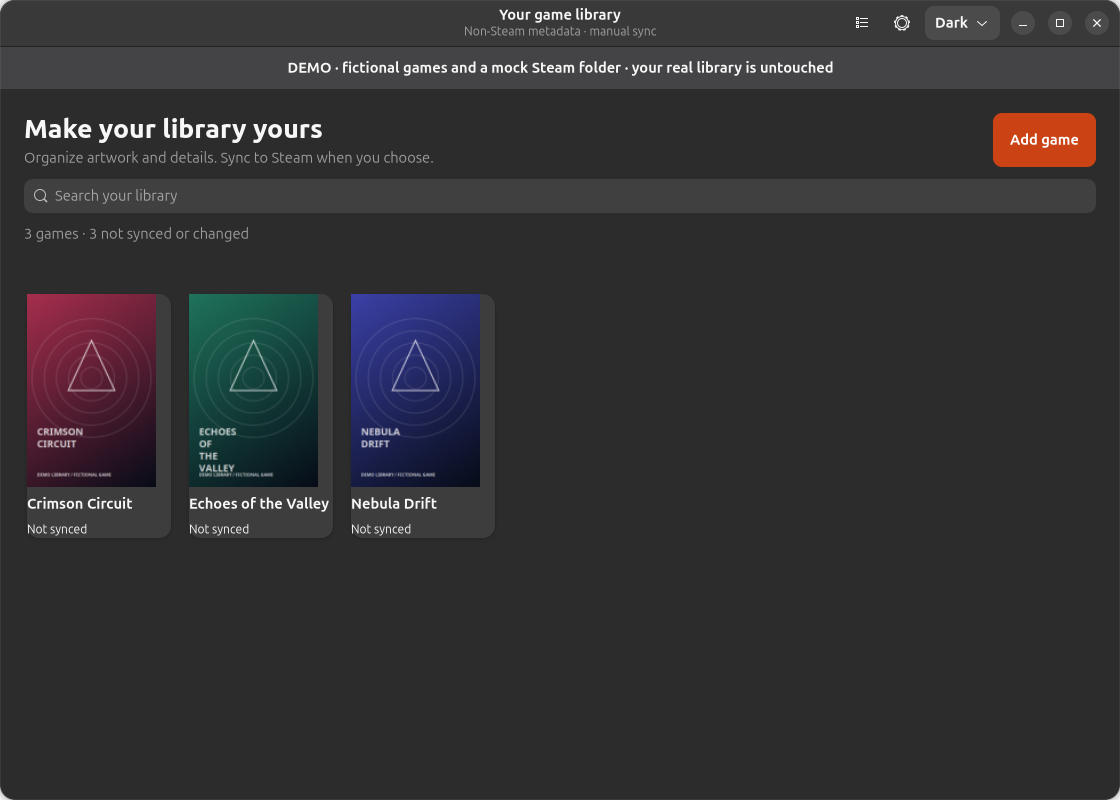
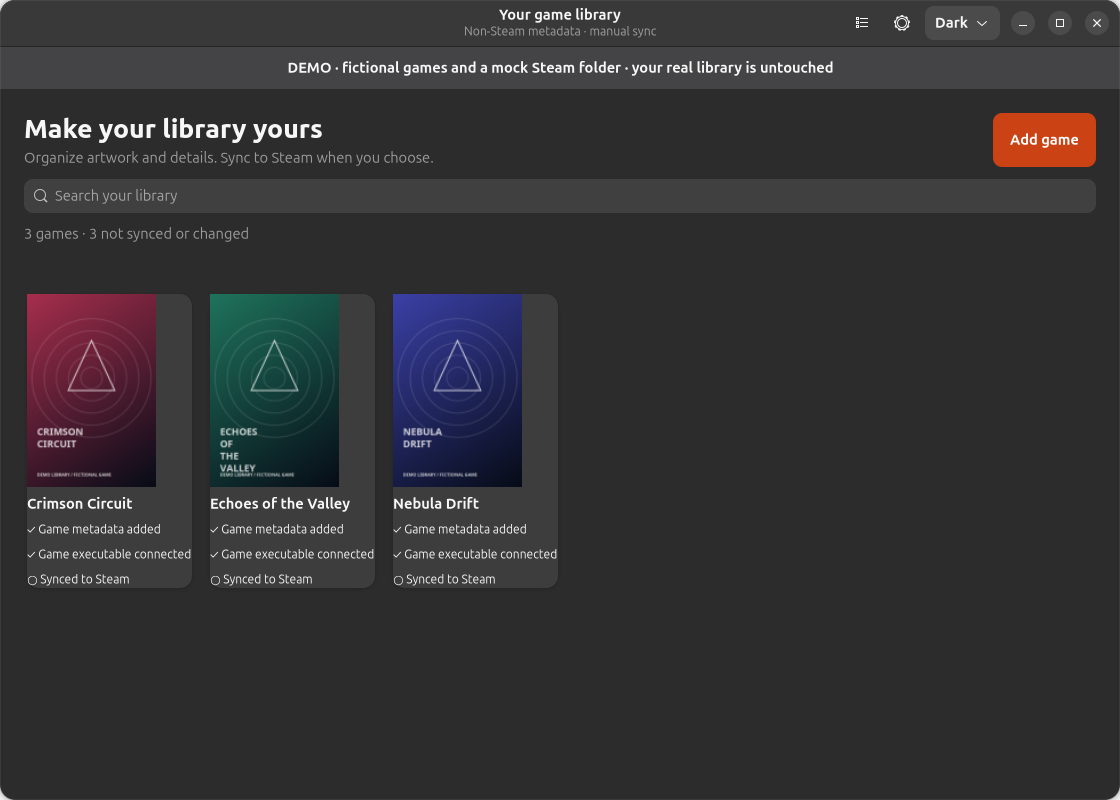
Show per-game setup checklist and simplify Sync label

Changed region(s): [[0.0312, 0.3438, 0.5, 0.75]]

diff --git a/steam_library/app.py b/steam_library/app.py
@@ -198,7 +198,8 @@ class Window(Adw.ApplicationWindow):
             content=box(spacing=8)
             content.append(self.picture(game['artwork'].get('portrait'),128,170))
             title=label(game['title'],'heading',width_chars=18,max_width_chars=18,ellipsize=Pango.EllipsizeMode.END,xalign=0); content.append(title)
-            state=label(self.library.status(game),'caption',xalign=0); content.append(state)
+            for done,text in self.progress_items(game):
+                content.append(label(('✓ ' if done else '○ ')+text,'caption',xalign=0))
             if not Path(game['executable']).is_file(): content.append(label('Relink needed','warning',xalign=0))
             tile.set_child(content); self.flow.append(tile)
 
@@ -224,6 +225,10 @@ class Window(Adw.ApplicationWindow):
         summary.append(label('Metadata stays here. Steam receives shortcut details and artwork.','dim-label',wrap=True,xalign=0))
         self.source_label=label(self.source_text(),'caption',xalign=0); summary.append(self.source_label)
         summary.append(button('Find metadata by name or provider ID',self.find_metadata))
+        self.progress_labels=[]
+        progress=box(False,12); summary.append(progress)
+        for _ in range(3):
+            item=label('', 'caption', xalign=0, wrap=True); progress.append(item); self.progress_labels.append(item)
         tabs=Gtk.Stack(transition_type=Gtk.StackTransitionType.CROSSFADE); self.detail_tabs=tabs
         tabs.set_vexpand(True); switcher=Gtk.StackSwitcher(stack=tabs,halign=Gtk.Align.CENTER)
         self.body.append(switcher); self.body.append(tabs)
@@ -255,10 +260,24 @@ class Window(Adw.ApplicationWindow):
         note=label('Save is local. Sync always asks first.','dim-label',xalign=0,hexpand=True); footer.append(note)
         delete=button('Delete game',self.delete_game,icon='user-trash-symbolic')
         delete.set_sensitive(any(g['id']==game['id'] for g in self.library.games())); footer.append(delete)
-        footer.append(button('Sync saved version',self.sync_saved))
+        footer.append(button('Sync',self.sync_saved))
         footer.append(button('Save',lambda:self.save_game(False)))
         footer.append(button('Save & Sync',lambda:self.save_game(True),'suggested-action'))
         self.body.append(footer); self.update_path_warning()
+        for widget in self.fields.values(): widget.connect('changed',lambda _:self.update_progress())
+        self.description.get_buffer().connect('changed',lambda _:self.update_progress())
+        self.update_progress()
+
+    def progress_items(self,game):
+        metadata=bool(game.get('metadata_source') or game.get('metadata_app_id') or (game['title'].strip() and game['description'].strip()))
+        executable=bool(game['executable'] and Path(game['executable']).is_file())
+        synced=self.library.status(game)=='Synced'
+        return zip((metadata,executable,synced),('Game metadata added','Game executable connected','Synced to Steam'))
+
+    def update_progress(self):
+        for item,(done,text) in zip(self.progress_labels,self.progress_items(self.collect())):
+            item.set_text(('✓ ' if done else '○ ')+text)
+            item.set_tooltip_text(('Complete: ' if done else 'Pending: ')+text)
 
     def source_text(self):
         source=self.game.get('metadata_source',{})
@@ -300,6 +319,7 @@ class Window(Adw.ApplicationWindow):
         self.choose_file('Choose game executable',selected)
 
     def render_artwork(self):
+        if 'arguments' in self.fields: self.update_progress()
         clear(self.art_page)
         self.art_page.append(label('Your artwork collection','title-2',xalign=0))
         self.art_page.append(button('Browse SteamGridDB artwork',self.find_sgdb))
@@ -500,6 +520,7 @@ class Window(Adw.ApplicationWindow):
     def save_game(self,sync=False):
         try:
             game=self.collect(); self.library.save(game); self.game=deepcopy(game); self.original=deepcopy(game)
+            self.update_progress()
             self.heading.set_title(game['title']); self.heading.set_subtitle(self.library.status(game)); self.notify('Saved locally. Steam has not been changed.')
             if sync: self.select_account(game)
         except Exception as e: self.error(e)

diff --git a/tools/ui_smoke.py b/tools/ui_smoke.py
@@ -68,6 +68,10 @@ with tempfile.TemporaryDirectory() as temp:
     adjustment.set_value(adjustment.get_upper()-adjustment.get_page_size()); settle()
     assert adjustment.get_value()>0, 'Detail scrollbar must reach lower fields'
     w.set_default_size(1120,800); w.detail_tabs.set_visible_child_name('overview'); settle()
+    assert any(b.get_label()=='Sync' for b in buttons(w))
+    assert len(w.progress_labels)==3
+    assert w.progress_labels[1].get_text().startswith('✓')
+    assert w.progress_labels[2].get_text().startswith('○')
     w.save_game(True)
     click_window('Choose Steam account','Steam account 123')
     pump_until(lambda:not w.busy)
@@ -75,6 +79,7 @@ with tempfile.TemporaryDirectory() as temp:
     click_window('Review Steam changes','Confirm sync to Steam')
     pump_until(lambda:not w.busy)
     assert library.status(library.games()[0])=='Synced'
+    assert w.progress_labels[2].get_text().startswith('✓')
     w.engine.undo(w.engine.latest_backup())
     assert not (library.root/'steam/userdata/123/config/shortcuts.vdf').exists()
     archive=Path(temp)/'backup.zip'; library.export_zip(archive)
